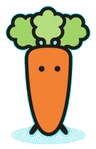
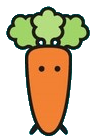
말마: 당근이가 옆에 있다가 답변 때 품으로 날아가 안기는 모션, 발밑 파란 그림자 제거
- 당근이를 말마 옆에 세워 두고(까딱 애니메이션), 답변 시 포물선으로 말마 품으로 이동 → 당근 안는 포즈로 교차 전환 + 하트
- 원본 그림의 하늘색 바닥 그림자를 모두 지우고 중립 드롭섀도만 사용
- 모바일: 말마를 말풍선 위에 배치해 말풍선 폭 확보

Claude-Session: https://claude.ai/code/session_01CmhhhiwiNi5LktCjo3nuuh

Changed region(s): [[0.0312, 0.0292, 0.9688, 0.9927], [0.375, 0.438, 0.5, 0.5547], [0.5625, 0.438, 0.6562, 0.5547]]

diff --git a/site/index.html b/site/index.html
@@ -458,26 +458,32 @@ h1,.rno,.rhead h2,section.gloss h2,section.load h2,section.results>h2,.rchip,.dh
 .day h1{font-size:clamp(28px,6vw,42px)}.rno{font-size:21px}.rhead h2{font-size:clamp(24px,5vw,32px)}.hero.small h1{font-size:clamp(30px,6.5vw,46px)}
 .chat{background:var(--surface);border:1px solid var(--line);border-radius:20px;overflow:hidden;display:grid;box-shadow:0 18px 40px -24px rgba(10,30,60,.35)}
 /* ---- 말마: 말풍선 옆 캐릭터 (원본 아트워크) ---- */
-.avatar{display:block;width:54px;height:64px;flex:none;background:url(malma/malma_stand.png) center bottom/auto 100% no-repeat;filter:drop-shadow(0 4px 3px rgba(0,60,90,.25))}
+.avatar{display:block;width:54px;height:64px;flex:none;background:url(malma/malma_stand.png) center bottom/auto 100% no-repeat;filter:drop-shadow(0 3px 2px rgba(20,30,40,.2))}
 .chathead .avatar{width:40px;height:48px}
-.mascot{display:block;position:relative;width:120px;height:120px;flex:none;align-self:flex-end;perspective:600px}
-.mascot .m{position:absolute;bottom:0;left:50%;height:100%;transform:translateX(-50%);filter:drop-shadow(0 8px 5px rgba(0,60,90,.28));transition:opacity .25s}
+.mascot{display:block;position:relative;width:170px;height:120px;flex:none;align-self:flex-end;perspective:600px}
+.mascot .m{position:absolute;bottom:0;left:62%;height:100%;transform:translateX(-50%);filter:drop-shadow(0 6px 4px rgba(20,30,40,.22));transition:opacity .25s}
+.mascot .carrot{position:absolute;bottom:2px;left:18%;height:46%;transform:translateX(-50%);transform-origin:50% 90%;filter:drop-shadow(0 4px 3px rgba(20,30,40,.2));animation:cBob 3s ease-in-out infinite .6s}
+@keyframes cBob{0%,100%{transform:translateX(-50%) rotate(-3deg)}50%{transform:translateX(-50%) translateY(-4px) rotate(3deg)}}
 .mascot .m.stand{animation:mFloat 4s ease-in-out infinite}
 @keyframes mFloat{0%,100%{transform:translateX(-50%) translateY(0) rotateY(-7deg)}50%{transform:translateX(-50%) translateY(-5px) rotateY(7deg)}}
-.mascot .m.hug{opacity:0;pointer-events:none}
-.mascot .heart{position:absolute;width:22px;left:50%;top:30%;opacity:0;pointer-events:none}
-.mascot .heart:nth-of-type(2){left:20%;top:45%}.mascot .heart:nth-of-type(3){left:70%;top:20%}
+.mascot .m.hug{opacity:0;pointer-events:none;left:58%}
+.mascot .heart{position:absolute;width:22px;left:58%;top:30%;opacity:0;pointer-events:none}
+.mascot .heart:nth-of-type(2){left:30%;top:45%}.mascot .heart:nth-of-type(3){left:80%;top:20%}
 .chat.is-typing .mascot .m.stand{animation:mThink 1s ease-in-out infinite}
+.chat.is-typing .mascot .carrot{animation:cBob 1s ease-in-out infinite}
 @keyframes mThink{0%,100%{transform:translateX(-50%) rotate(-5deg)}50%{transform:translateX(-50%) rotate(5deg) translateY(-4px)}}
-.chat.is-answer .mascot .m.stand{opacity:0}
-.chat.is-answer .mascot .m.hug{opacity:1;animation:mHug .7s cubic-bezier(.2,.9,.3,1.3) both}
-@keyframes mHug{0%{transform:translateX(-50%) scale(.9) translateY(8px)}60%{transform:translateX(-50%) scale(1.04) translateY(-3px)}100%{transform:translateX(-50%) scale(1) translateY(0)}}
-.chat.is-answer .mascot .heart{animation:hf 1.8s ease-out both}
-.chat.is-answer .mascot .heart:nth-of-type(2){animation-delay:.3s}.chat.is-answer .mascot .heart:nth-of-type(3){animation-delay:.55s}
+.chat.is-answer .mascot .carrot{animation:cJump .5s cubic-bezier(.4,0,.6,1) both}
+@keyframes cJump{0%{transform:translateX(-50%) rotate(-3deg) scale(1);opacity:1}70%{transform:translate(70px,-26px) rotate(-55deg) scale(.95);opacity:1}100%{transform:translate(80px,-20px) rotate(-60deg) scale(.9);opacity:0}}
+.chat.is-answer .mascot .m.stand{opacity:0;transition-delay:.4s}
+.chat.is-answer .mascot .m.hug{opacity:1;transition-delay:.4s;animation:mHug .6s cubic-bezier(.2,.9,.3,1.3) .4s both}
+@keyframes mHug{0%{transform:translateX(-50%) scale(.96) translateY(4px)}60%{transform:translateX(-50%) scale(1.05) translateY(-4px)}100%{transform:translateX(-50%) scale(1) translateY(0)}}
+.chat.is-answer .mascot .heart{animation:hf 1.8s ease-out .5s both}
+.chat.is-answer .mascot .heart:nth-of-type(2){animation-delay:.8s}.chat.is-answer .mascot .heart:nth-of-type(3){animation-delay:1.05s}
 @keyframes hf{0%{opacity:0;transform:translateY(0) scale(.5) rotate(-10deg)}20%{opacity:1}100%{opacity:0;transform:translateY(-60px) scale(1.1) rotate(10deg)}}
 .msg.guide.live{align-items:flex-end}
-@media (max-width:640px){.mascot{width:92px;height:92px}.avatar{width:44px;height:52px}}
-@media (prefers-reduced-motion:reduce){.mascot .m,.mascot .heart,.bubble{animation:none!important}}
+@media (max-width:640px){.mascot{width:130px;height:92px;align-self:flex-start;margin-bottom:-6px}.msg.guide.live{flex-direction:column;align-items:flex-start;max-width:96%}.msg.guide.live .bubble{width:100%;box-sizing:border-box;border-top-left-radius:5px;border-bottom-left-radius:18px}.avatar{width:44px;height:52px}.chat.is-answer .mascot .carrot{animation-name:cJumpS}}
+@keyframes cJumpS{0%{transform:translateX(-50%) rotate(-3deg);opacity:1}70%{transform:translate(52px,-20px) rotate(-55deg) scale(.95);opacity:1}100%{transform:translate(60px,-15px) rotate(-60deg) scale(.9);opacity:0}}
+@media (prefers-reduced-motion:reduce){.mascot .m,.mascot .carrot,.mascot .heart,.bubble{animation:none!important}}
 .chathead{display:flex;align-items:center;gap:10px;padding:12px 16px;border-bottom:1px solid var(--line);background:var(--bg)}
 .chathead b{display:block;font-size:15px}.chathead small{color:var(--muted);font-size:12px}.chathead .qchip{margin-left:auto}
 .chatlog{display:grid;gap:10px;padding:16px;max-height:min(70vh,760px);overflow:auto;scroll-behavior:smooth}
@@ -943,7 +949,7 @@ function askGuide(k,tour,scroll){
 }
 function chatScroll(toTop){ const l=$("chatlog"); if(!l) return; if(toTop){ const s=document.querySelector(".chat"); if(s) s.scrollIntoView({block:"start"}); } l.scrollTop=l.scrollHeight; }
 const PONY_SVG="";
-const MASCOT=`<span class="mascot" aria-hidden="true"><img class="m stand" src="malma/malma_stand.png" alt=""><img class="m hug" src="malma/malma_hug.png" alt=""><img class="heart" src="malma/heart.png" alt=""><img class="heart" src="malma/heart.png" alt=""><img class="heart" src="malma/heart.png" alt=""></span>`;
+const MASCOT=`<span class="mascot" aria-hidden="true"><img class="carrot" src="malma/carrot.png" alt=""><img class="m stand" src="malma/malma_stand.png" alt=""><img class="m hug" src="malma/malma_hug.png" alt=""><img class="heart" src="malma/heart.png" alt=""><img class="heart" src="malma/heart.png" alt=""><img class="heart" src="malma/heart.png" alt=""></span>`;
 
 function render(){
   const t=T[lang]; document.documentElement.lang=lang;
